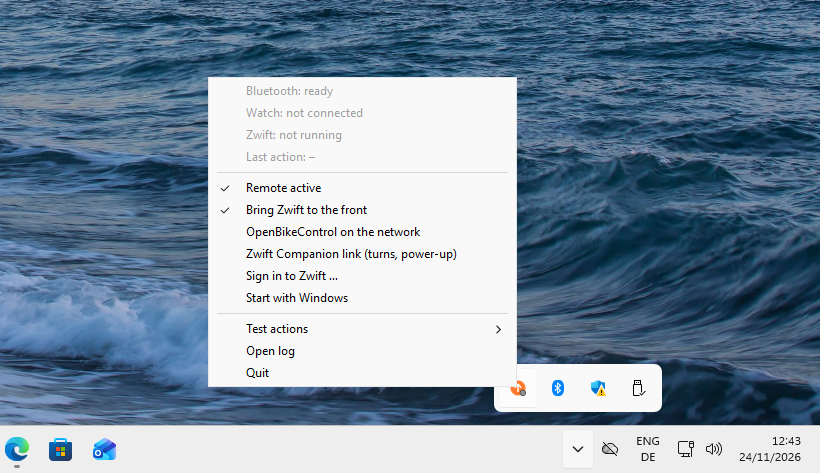
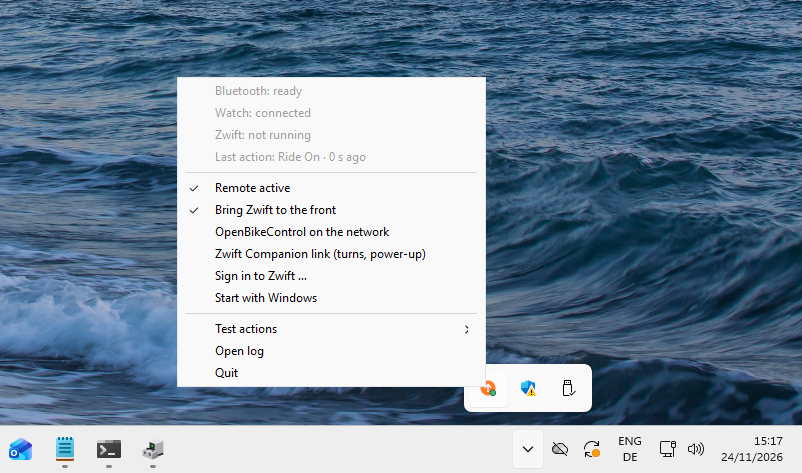
Release 0.2.0: Windows bridge on a dedicated adapter
README: why Windows needs a second USB Bluetooth adapter, setup with
Zadig and how to give the adapter back; tray screenshot with a connected
watch. Architecture doc and backlog follow the Bumble backend.

diff --git a/bridge/zwindoor_bridge/__init__.py b/bridge/zwindoor_bridge/__init__.py
@@ -7,4 +7,4 @@ forwards the command to trainer apps that speak OpenBikeControl.
 The same core runs in two shells: a small Windows tray program and a page in Tretlager (Linux).
 """
 
-__version__ = "0.1.1"
+__version__ = "0.2.0"

diff --git a/docs/architecture.md b/docs/architecture.md
@@ -12,7 +12,7 @@ Garmin watch / Edge (Connect IQ, BLE central)
    |  GATT write: command [seq, action, value]
    v
 zwindoor_bridge (Python core: protocol, action table, engine, acknowledgements)
-   |  BLE peripheral: BlueZ over D-Bus (Linux) | WinRT GattServiceProvider (Windows)
+   |  BLE peripheral: BlueZ over D-Bus (Linux) | Bumble on a dedicated USB adapter (Windows)
    |
    +-- Output A: keyboard  -> Zwift window
    |     Windows: SendInput (scan codes)
@@ -23,6 +23,22 @@ zwindoor_bridge (Python core: protocol, action table, engine, acknowledgements)
    +-- GATT notify: acknowledgement, bridge state, game state -> watch
 ```
 
+## Why Windows needs its own adapter
+
+Windows advertises GATT servers with a resolvable private address that changes. Garmin watches
+refuse to connect to private addresses of devices they are not bonded with, and Connect IQ has no
+bonding API. A test on 2026-11-24 with the same USB adapter on Linux confirmed it: with the public
+address the fēnix 7X Pro connects at once, with privacy switched on it never does. Windows also
+interleaves a Microsoft beacon ("Share across devices") on the same address, which hides the
+service UUID from the watch.
+
+On Windows the bridge therefore runs [Bumble](https://github.com/google/bumble), a Bluetooth host
+stack in Python, on a second USB adapter with the WinUSB driver. Bumble talks HCI to the adapter,
+loads the Realtek firmware itself (bundled from linux-firmware, see
+`bridge/tools/fetch_rtk_firmware.py`) and advertises with the adapter's public address. The name
+and the 128-bit service UUID both go into the advertising packet, because the watch ignores scan
+responses.
+
 ## Components
 
 | Path | Content |
@@ -32,7 +48,7 @@ zwindoor_bridge (Python core: protocol, action table, engine, acknowledgements)
 | `bridge/zwindoor_bridge/engine.py` | handles commands: focus check, bring Zwift to the front, typing, acknowledgement |
 | `bridge/zwindoor_bridge/keys.py` | logical key names to X11 keysyms, Windows scan codes and evdev codes |
 | `bridge/zwindoor_bridge/sinks/` | keyboard outputs: `windows.py` (SendInput), `xtest.py` (X11/XWayland, Wine), `uinput.py` |
-| `bridge/zwindoor_bridge/ble/` | GATT peripheral: `bluez.py` (BlueZ over dbus-fast), `winrt_backend.py` (Windows, WinRT API via pywinrt), `bless_backend.py` (macOS) |
+| `bridge/zwindoor_bridge/ble/` | GATT peripheral: `bluez.py` (BlueZ over dbus-fast), `bumble_backend.py` (own BLE stack on a dedicated USB adapter, default on Windows), `winrt_backend.py` (Windows API, kept for tests: Garmin watches do not connect to it), `bless_backend.py` (macOS) |
 | `bridge/zwindoor_bridge/obc.py`, `announce.py` | OpenBikeControl server and its mDNS announcement (Avahi on Linux, python-zeroconf on Windows) |
 | `bridge/zwindoor_bridge/companion.py`, `pb.py`, `zwiftapi.py` | Zwift Companion link, minimal protobuf codec, Zwift web calls |
 | `bridge/zwindoor_bridge/config.py` | settings as JSON (`%APPDATA%\Zwindoor\config.json`, `~/.config/zwindoor/config.json`) |

diff --git a/README.md b/README.md
@@ -47,7 +47,8 @@ or as a keyboard. ZWindoor therefore has two parts:
 
 The bridge exists in two forms with the same core:
 
-- **ZWindoor Bridge for Windows** – a small program in the notification area, a single .exe.
+- **ZWindoor Bridge for Windows** – a small program in the notification area, a single .exe. It
+  needs a second USB Bluetooth adapter of its own (about 10 euros, see below).
 - **Built into [Tretlager](https://github.com/freiversum/tretlager)** – the Zwift manager for
   Linux, on its page *Watch remote*.
 
@@ -65,11 +66,27 @@ Download `ZWindoorBridge.exe` from the
 is needed; settings and the log live in `%APPDATA%\Zwindoor\`. A checksum file
 (`SHA256SUMS.txt`) is attached to every release.
 
-Requirement: a Bluetooth adapter that supports the peripheral role (most current Intel adapters
-do). The program is not code-signed yet, so Windows SmartScreen may warn on the first start.
+The program is not code-signed yet, so Windows SmartScreen may warn on the first start.
+
+**You need a second, dedicated USB Bluetooth adapter.** Windows advertises Bluetooth services
+with a changing private address, and Garmin watches do not connect to such addresses. The bridge
+therefore runs its own Bluetooth stack ([Bumble](https://github.com/google/bumble)) on a USB
+adapter that it uses exclusively, with the adapter's fixed address. Your built-in Bluetooth stays
+free for headphones, controllers and the like.
+
+- Tested: TP-Link UB500 (Realtek RTL8761BU, about 10 euros). Other adapters with the Realtek
+  RTL8761B chip should work too; the bridge loads their firmware itself.
+- One-time setup: plug in the adapter, start [Zadig](https://zadig.akeo.ie/), choose
+  *Options* | *List All Devices*, select the adapter (for the UB500: USB ID `2357 0604`), set
+  the driver to **WinUSB** and click *Replace Driver*. Windows then no longer uses this adapter
+  for its own Bluetooth.
+- Start the bridge, or choose *Start Bluetooth again* in its menu if it was already running.
+
+To give the adapter back to Windows, open the Device Manager, find it under *Universal Serial
+Bus devices*, choose *Uninstall device* with *Attempt to remove the driver*, and plug it in again.
 
 <p align="center">
-  <img src="docs/screenshots/windows-tray.png" alt="ZWindoor Bridge menu in the Windows notification area: status of Bluetooth, watch and Zwift, switches for the remote, OpenBikeControl and the Companion link, test actions, log and quit" width="70%">
+  <img src="docs/screenshots/windows-tray.png" alt="ZWindoor Bridge menu in the Windows notification area with a connected watch: status of Bluetooth, watch and Zwift, last action Ride On, switches for the remote, OpenBikeControl and the Companion link, test actions, log and quit" width="70%">
 </p>
 
 The menu shows the state of Bluetooth, the watch and Zwift, and the last action. *Test actions*

diff --git a/BACKLOG.md b/BACKLOG.md
@@ -4,7 +4,7 @@
 
 - [ ] AMOLED layout on a real AMOLED watch (fēnix 8/9 or epix Pro); so far only checked in the simulator
 - [ ] Edge app on a real Edge bike computer; so far only checked in the simulator (1040, 540, 1050)
-- [ ] Windows bridge on real hardware: peripheral role of the Bluetooth adapter, SendInput into ZwiftApp.exe, firewall prompt for the Companion port (21587)
+- [ ] Windows bridge on real hardware: SendInput into ZwiftApp.exe, firewall prompt for the Companion port (21587)
 - [ ] Keep the connection for 60 minutes, measure latency from button press to acknowledgement on the watch
 - [ ] Heart rate broadcast of the watch to Zwift alongside the ZWindoor connection
 - [ ] Keyboard "straight on": the up arrow opens Zwift's action menu since 2025 – check in the game
@@ -27,6 +27,8 @@
 
 ## Windows bridge
 
+- [ ] Support Intel USB adapters in the Windows build (Bumble has a driver, firmware not bundled yet)
+- [ ] A setup helper that installs WinUSB for the adapter, so users do not need Zadig
 - [ ] *Test actions* do nothing while Bluetooth is not running – run them anyway (keyboard path) or grey the menu out
-- [ ] **Blocker: the fēnix does not connect to the Windows bridge.** Windows advertises a GATT server with a resolvable private address, and the watch refuses to connect to private addresses of unbonded devices (verified 2026-11-24 with the same USB adapter on Linux: public address connects, privacy on does not). Connect IQ has no bonding API. Options: own BLE stack on a dedicated USB adapter (Bumble + WinUSB), or drop Windows for now
-- [ ] Windows also interleaves a Microsoft CDP beacon ("Share across devices") on the same address; the watch then misses the service UUID. Name "BOX11EN" only comes in the scan response, which the watch ignores
+- [x] **Blocker: the fēnix does not connect to the Windows bridge.** Windows advertises a GATT server with a resolvable private address, and the watch refuses to connect to private addresses of unbonded devices (verified 2026-11-24 with the same USB adapter on Linux: public address connects, privacy on does not). Connect IQ has no bonding API. Solved in 0.2.0 with Bumble on a dedicated USB adapter (WinUSB); tested in a Windows 11 VM with a TP-Link UB500 and the fēnix 7X Pro
+- [x] Windows also interleaves a Microsoft CDP beacon ("Share across devices") on the same address; the watch then misses the service UUID. Name "BOX11EN" only comes in the scan response, which the watch ignores (no longer relevant with Bumble)

diff --git a/CHANGELOG.md b/CHANGELOG.md
@@ -6,6 +6,17 @@ All notable changes to this project are documented in this file. The format is b
 
 ## [Unreleased]
 
+## [0.2.0] - 2026-11-24
+
+### Changed
+- **The Windows bridge needs a dedicated USB Bluetooth adapter** with the WinUSB driver (set up
+  once with Zadig, see the README). The built-in Bluetooth of the computer stays free.
+
+### Added
+- Tray menu: *Set up a Bluetooth adapter* (opens the guide) and *Start Bluetooth again* while
+  Bluetooth is not running.
+- The advertising packet carries the name "ZWindoor", so the watch's device list shows it.
+
 ### Fixed
 - Windows bridge: Garmin watches could not connect. Windows advertises GATT servers with a private
   address, which the watches refuse for devices they are not bonded with. The bridge now runs its own
